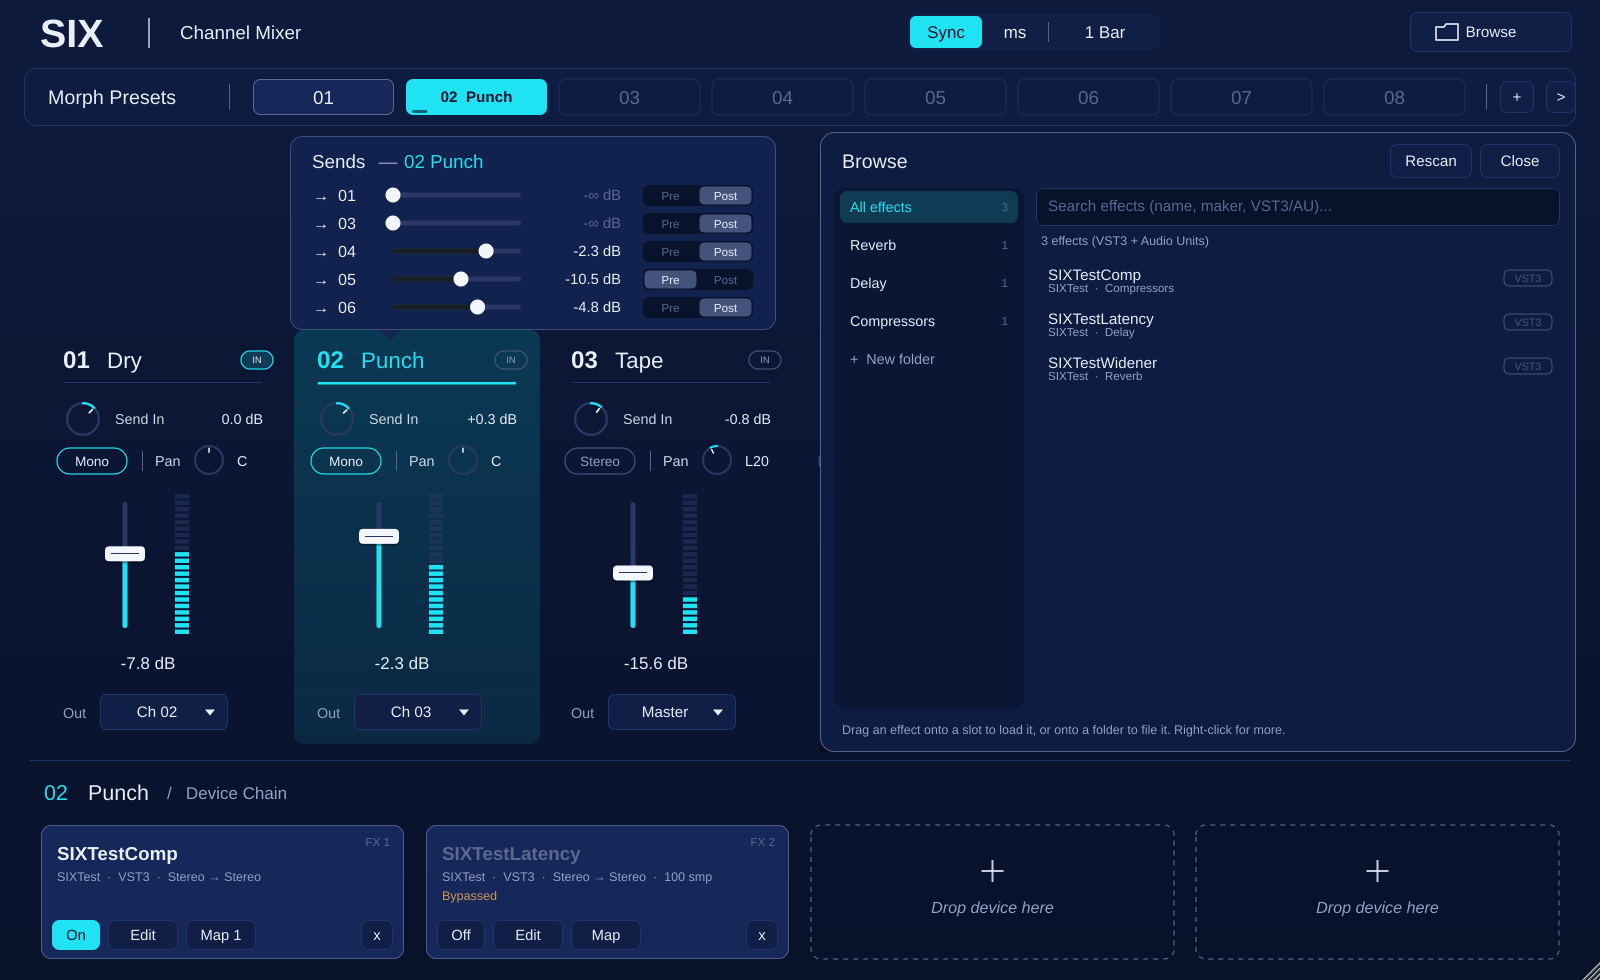
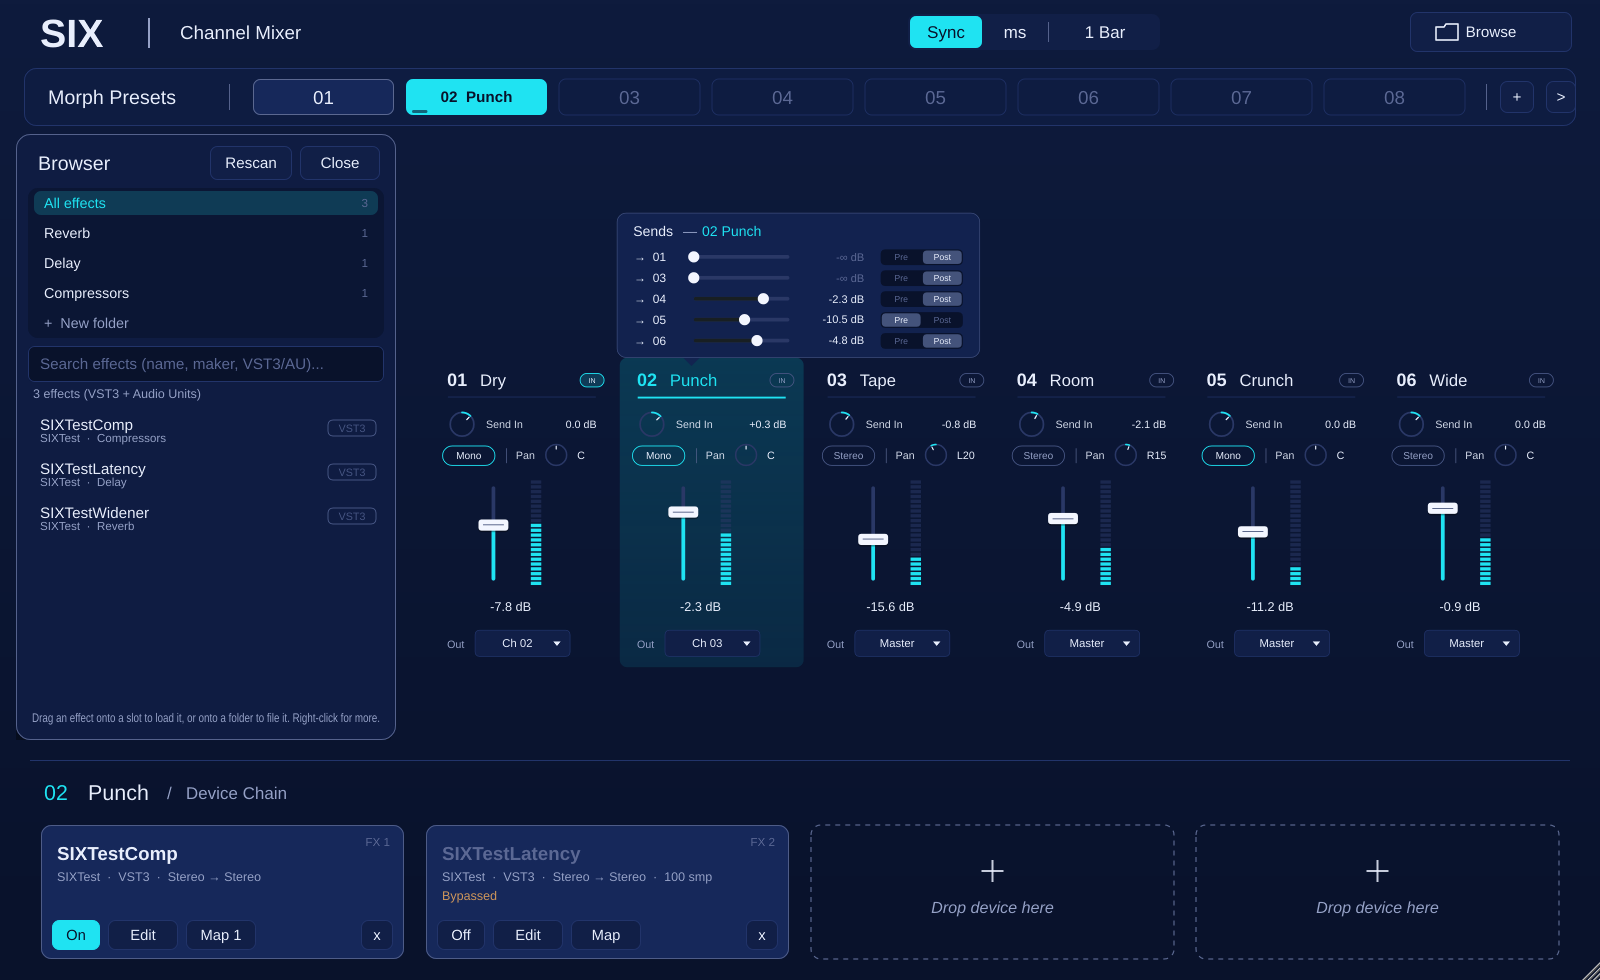
Browser docked on the left; channels shift right while it is open
Claude-Session: https://claude.ai/code/session_01MDBMsXcqByq1BRH8rC1a2F

diff --git a/Source/UI/PluginEditor.cpp b/Source/UI/PluginEditor.cpp
@@ -24,9 +24,11 @@ public:
             strips[(size_t) i] = std::make_unique<ChannelStrip> (p, i);
             strips[(size_t) i]->onSelect = [&ed] (int ch) { ed.selectChannel (ch); };
             strips[(size_t) i]->onMessage = [&ed] (const String& m) { ed.showMessage (m); };
-            addAndMakeVisible (*strips[(size_t) i]);
+            mixer.addAndMakeVisible (*strips[(size_t) i]);
         }
-        addAndMakeVisible (sends);
+        mixer.addAndMakeVisible (sends);
+        mixer.setInterceptsMouseClicks (false, true);
+        addAndMakeVisible (mixer);
         addAndMakeVisible (chain);
         addChildComponent (browser);
 
@@ -39,7 +41,7 @@ public:
         chain.onMessage = [&ed] (const String& m) { ed.showMessage (m); };
         chain.onBrowse = [&ed] { ed.toggleBrowser(); };
         header.onBrowse = [&ed] { ed.toggleBrowser(); };
-        browser.onClose = [this] { browser.setVisible (false); };
+        browser.onClose = [this] { browser.setVisible (false); layoutMixer(); };
         browser.onLoad = [this] (const PluginDescription& d)
         {
             const int s = chain.proc.host->firstEmptySlot (chain.getChannel());
@@ -60,11 +62,28 @@ public:
         header.setBounds (0, 0, designW, 64);
         toast.setBounds (420, 14, 470, 36);
         presets.setBounds (24, 68, designW - 48, 58);
+        // the mixer area (sends + six strips) lives in its own design space: y 130..750
+        mixer.setBounds (0, mixerTop, designW, mixerH);
         for (int i = 0; i < kNumChannels; ++i)
-            strips[(size_t) i]->setBounds (40 + i * 254, 330, 246, 414);
+            strips[(size_t) i]->setBounds (40 + i * 254, 330 - mixerTop, 246, 414);
         layoutSends();
         chain.setBounds (0, 760, designW, 220);
-        browser.setBounds (designW - 780, 132, 756, 620);
+        browser.setBounds (16, mixerTop + 4, browserW, mixerH - 14);   // docked on the left
+        layoutMixer();
+    }
+
+    // With the Browser open, the channels shift right and shrink to make room for it.
+    void layoutMixer()
+    {
+        if (browser.isVisible())
+        {
+            const float avail = (float) (designW - browserW - 24);
+            const float s = avail / (float) designW;
+            const float dy = (float) mixerH * (1.0f - s) * 0.5f;
+            mixer.setTransform (AffineTransform::scale (s).translated ((float) (browserW + 20), (float) mixerTop * (1.0f - s) + dy));
+        }
+        else
+            mixer.setTransform ({});
     }
 
     void layoutSends()
@@ -73,7 +92,7 @@ public:
         const auto sb = strips[(size_t) ch]->getBounds();
         const int w = 486, h = 206;
         const int x = jlimit (16, designW - w - 16, sb.getX() - 4);
-        sends.setBounds (x, 136, w, h);
+        sends.setBounds (x, 136 - mixerTop, w, h);
         sends.arrowX = (float) (sb.getX() + 96 - x);
         sends.repaint();
     }
@@ -94,6 +113,8 @@ public:
     std::array<std::unique_ptr<ChannelStrip>, (size_t) kNumChannels> strips;
     DeviceChain chain;
     BrowserPanel browser;
+    Component mixer;
+    static constexpr int mixerTop = 130, mixerH = 620, browserW = 380;
     Label toast;
     uint32 toastTime = 0;
 };
@@ -154,6 +175,7 @@ void SIXEditor::toggleBrowser()
 {
     content->browser.setVisible (! content->browser.isVisible());
     if (content->browser.isVisible()) content->browser.toFront (true);
+    content->layoutMixer();
 }
 
 void SIXEditor::timerCallback()

diff --git a/Source/UI/BrowserPanel.cpp b/Source/UI/BrowserPanel.cpp
@@ -9,7 +9,7 @@ class BrowserPanel::FolderList : public Component, public DragAndDropTarget
 {
 public:
     explicit FolderList (BrowserPanel& b) : owner (b) {}
-    static constexpr int rowH = 38;
+    int rowH = 38;
 
     int rowAt (int y) const { return y / rowH; }                         // 0 = All, 1..n folders, n+1 = "+ New"
     int numRows() const { return owner.catalog().numFolders() + 2; }
@@ -194,17 +194,29 @@ void BrowserPanel::paint (Graphics& g)
     drawPanel (g, getLocalBounds().toFloat(), Colour (0xff0f1c42), col::border.brighter (0.3f), 14.0f);
     g.setColour (col::text);
     g.setFont (sixFont (22.0f));
-    g.drawText ("Browse", 22, 14, 200, 30, Justification::centredLeft);
+    g.drawText ("Browser", 22, 14, 200, 30, Justification::centredLeft);
     g.setColour (col::muted);
     g.setFont (sixFont (14.0f));
-    g.drawText ("Drag an effect onto a slot to load it, or onto a folder to file it. Right-click for more.",
-                22, getHeight() - 34, getWidth() - 44, 24, Justification::centredLeft);
+    g.drawFittedText ("Drag an effect onto a slot to load it, or onto a folder to file it. Right-click for more.",
+                      { 16, getHeight() - 38, getWidth() - 32, 32 }, Justification::centredLeft, 2);
 }
 
 void BrowserPanel::resized()
 {
     close.setBounds (getWidth() - 96, 12, 80, 34);
     rescan.setBounds (getWidth() - 186, 12, 82, 34);
+    if (getWidth() < 520)   // docked, narrow: folders on top, results below
+    {
+        folderList->rowH = 30;
+        const int fh = jmin (folderList->numRows() * 30, 30 * 6);
+        folderList->setBounds (12, 54, getWidth() - 24, fh);
+        const int y = 54 + fh + 8;
+        search.setBounds (12, y, getWidth() - 24, 36);
+        status.setBounds (12, y + 38, getWidth() - 24, 20);
+        list.setBounds (6, y + 60, getWidth() - 12, getHeight() - (y + 60) - 40);
+        return;
+    }
+    folderList->rowH = 38;
     const int fw = 190;
     folderList->setBounds (14, 56, fw, getHeight() - 56 - 44);
     const int x = 14 + fw + 12;
@@ -233,7 +245,7 @@ void BrowserPanel::updateResults()
     results = catalog().search (search.getText(), selectedFolder);
     list.updateContent();
     list.repaint();
-    if (folderList != nullptr) folderList->repaint();
+    if (folderList != nullptr) { folderList->repaint(); resized(); }
     refresh();
 }
 
